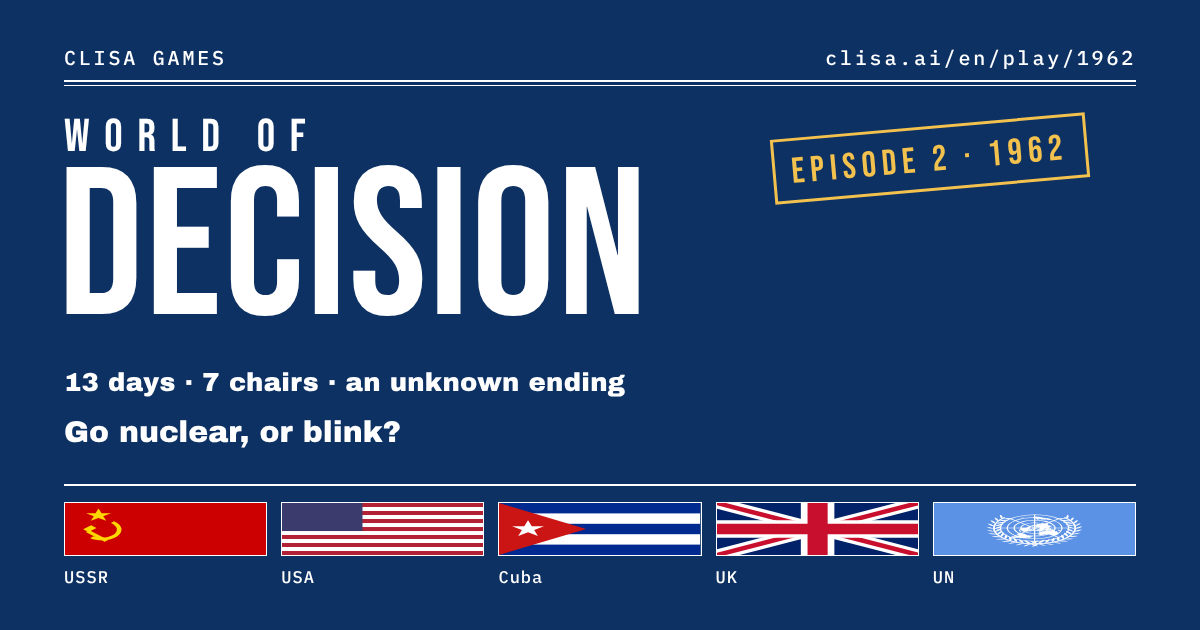
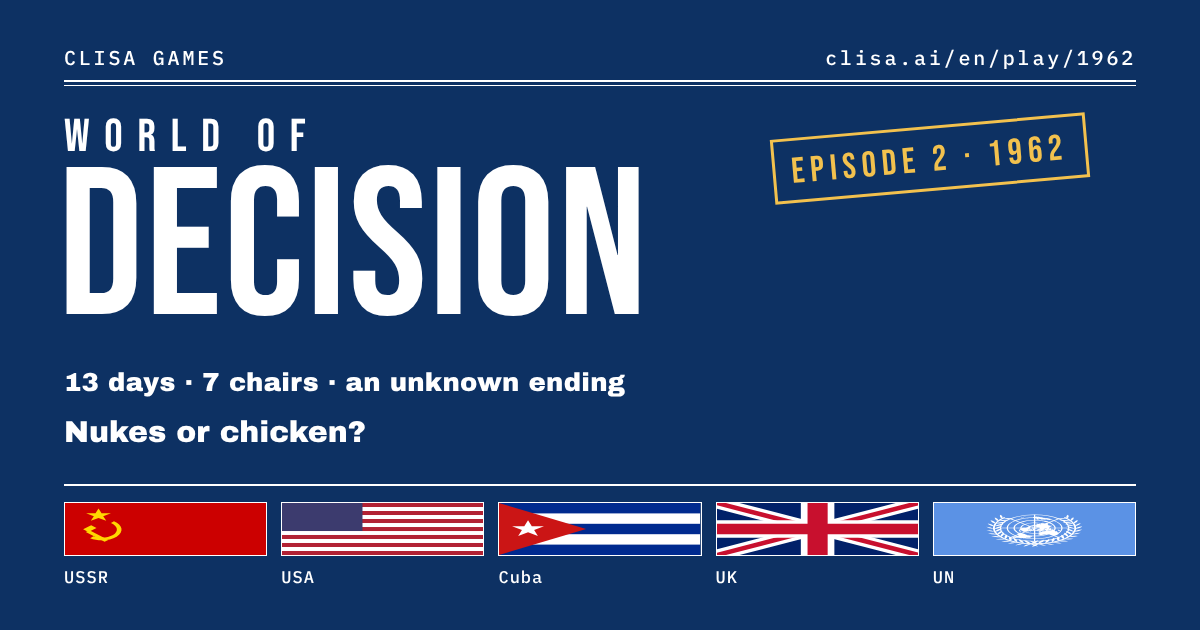
게임 1962. 영문 홍보카드 개정

Changed region(s): [[0.0617, 0.6635, 0.3392, 0.7238]]

diff --git a/en/play/1962/index.html b/en/play/1962/index.html
@@ -15,12 +15,12 @@
 <meta property="og:description" content="October 1962. Take the chair of Kennedy, Khrushchev, Castro, Macmillan, U Thant, Pliyev or Arkhipov and decide the thirteen days of the Cuban Missile Crisis again.">
 <meta property="og:url" content="https://clisa.ai/en/play/1962/">
 <meta property="og:locale" content="en_US">
-<meta property="og:image" content="https://clisa.ai/card/play-1962-en.png">
+<meta property="og:image" content="https://clisa.ai/card/play-1962-en.png?v=2">
 <meta property="og:image:width" content="1200">
 <meta property="og:image:height" content="630">
 <meta property="og:image:alt" content="WORLD OF DECISION · EPISODE 2 · 1962">
 <meta name="twitter:card" content="summary_large_image">
-<meta name="twitter:image" content="https://clisa.ai/card/play-1962-en.png">
+<meta name="twitter:image" content="https://clisa.ai/card/play-1962-en.png?v=2">
 <meta name="theme-color" content="#EDEDED">
 <link rel="apple-touch-icon" href="/apple-touch-icon.png">
 <link rel="preconnect" href="https://fonts.googleapis.com">
